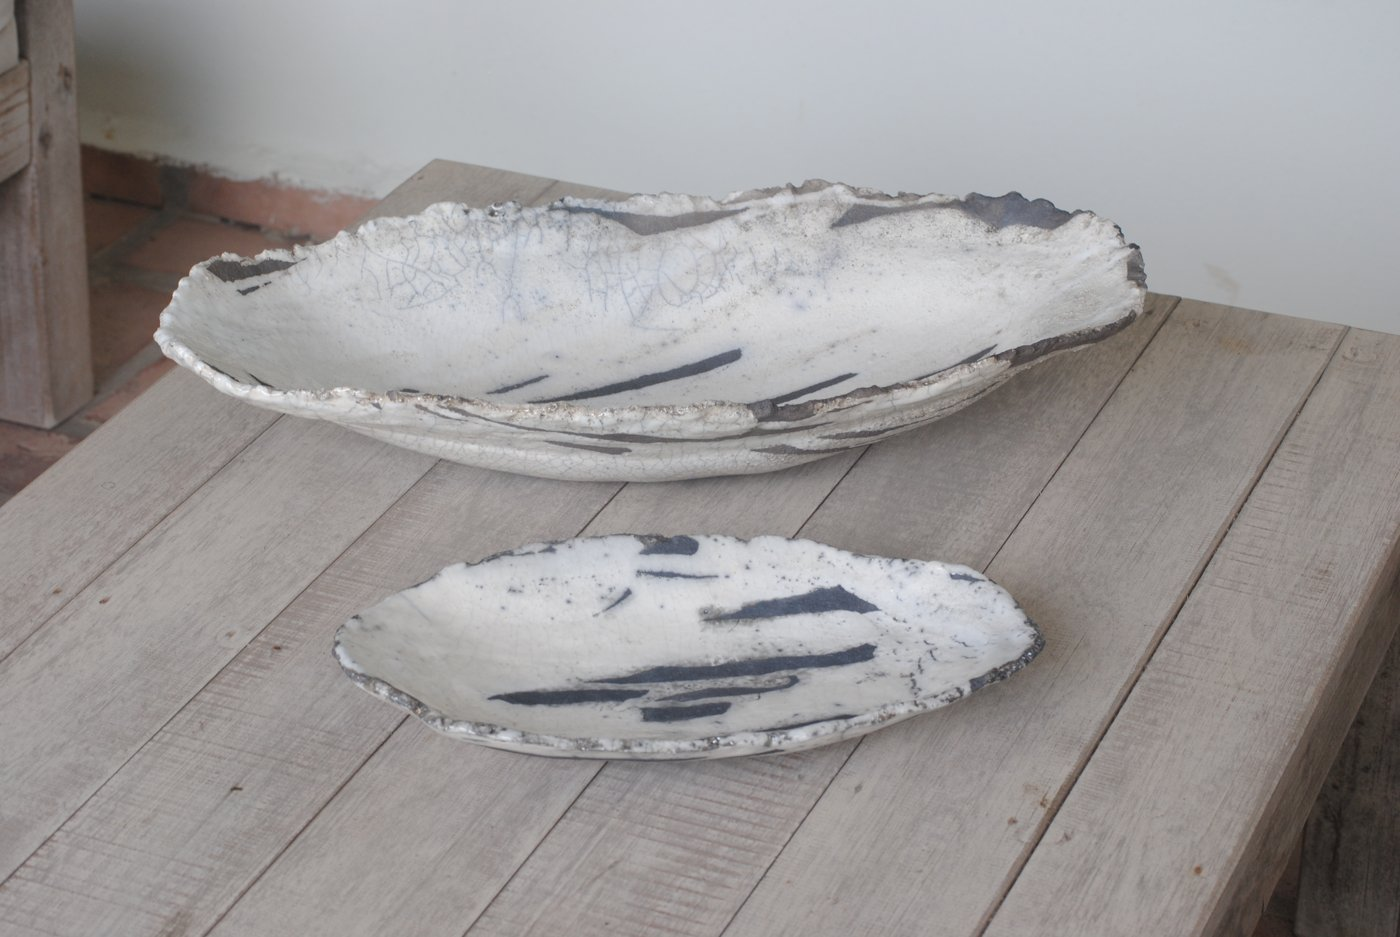
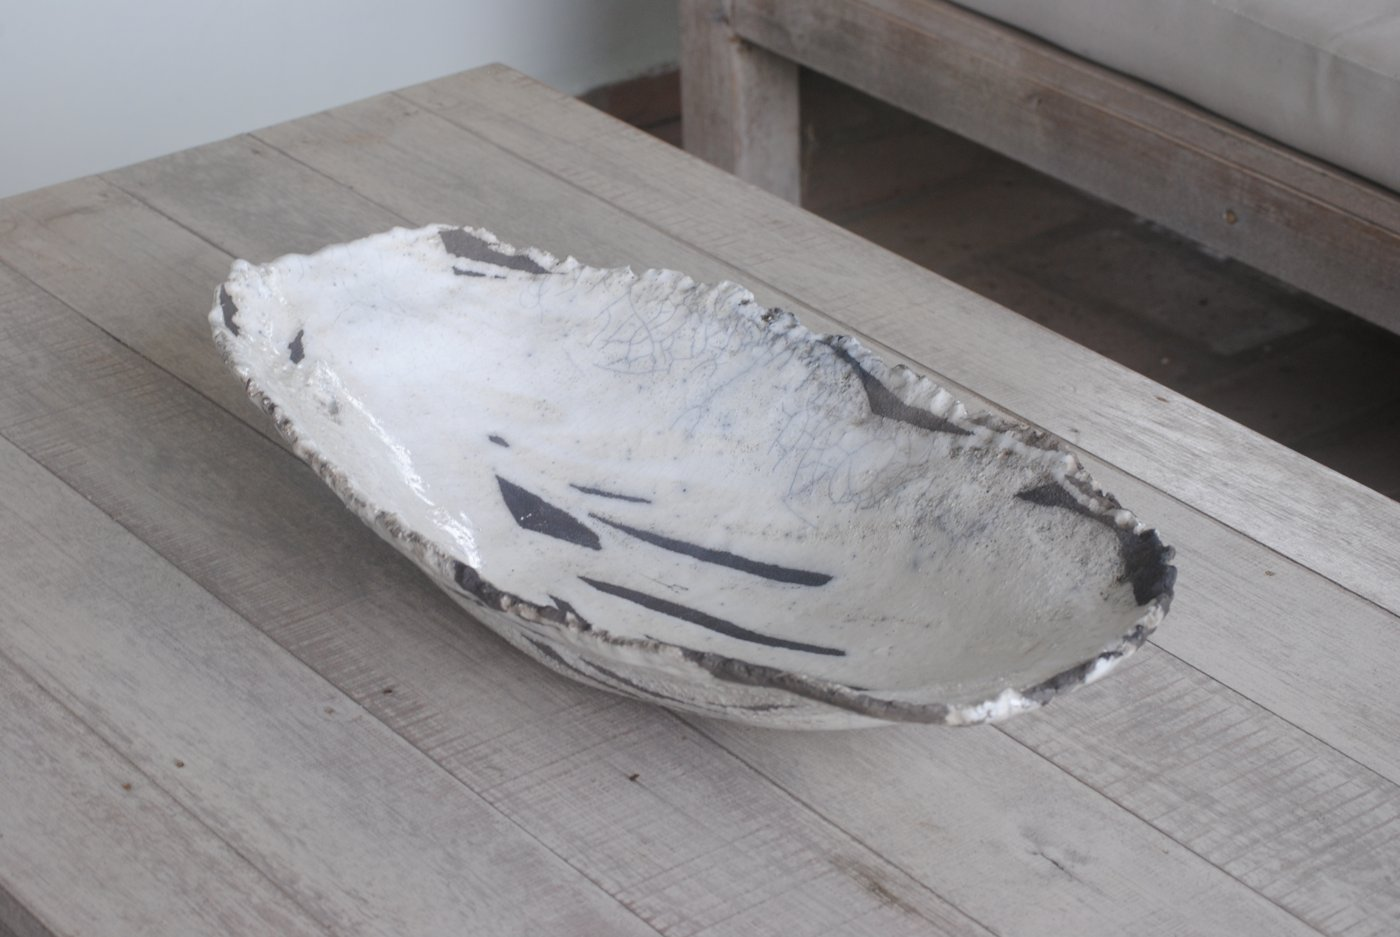
Conectar las 12 fotos nuevas: Anfora, Batea Espiga/Palma, Moab, Salem
5 piezas pasan de placeholder a foto real (optimizada). Quedan 7 sin
foto: Batea Canaan, Vasija Humo mediana, Corazones y Virgen de Fatima.

https://claude.ai/code/session_019p1KMGbqrdEX79wQx66fPZ

diff --git a/productos.js b/productos.js
@@ -118,7 +118,7 @@ const PRODUCTOS = [
     categoria: "ceramica",
     precio: 80000,
     descripcion: "Ánfora de cuerpo amplio en turquesa menta, con moteado de ceniza y fino craquelé, como una reliquia rescatada del agua y el tiempo. Cerámica raku. Medidas: 18 alto × 13 ancho cm.",
-    foto: "",
+    foto: "fotos/prod-anfora.jpg",
     unica: true,
     disponible: false,
     vendida: false
@@ -140,7 +140,7 @@ const PRODUCTOS = [
     categoria: "ceramica",
     precio: 150000,
     descripcion: "Batea alargada mediana de raku transparente, con la textura y las grietas naturales del fuego. Serena y luminosa. Medidas: 44 × 21 × 9 cm.",
-    foto: "",
+    foto: "fotos/prod-batea-palma.jpg",
     unica: true,
     disponible: true,
     vendida: false
@@ -239,7 +239,7 @@ const PRODUCTOS = [
     categoria: "ceramica",
     precio: 70000,
     descripcion: "Vaso escultural tipo florero en verde óxido, con degradado de humo e irisaciones metálicas. Carácter mineral. Medidas: 24 alto × 13 diámetro cm.",
-    foto: "",
+    foto: "fotos/prod-recipiente-moab.jpg",
     unica: true,
     disponible: true,
     vendida: false
@@ -250,7 +250,7 @@ const PRODUCTOS = [
     categoria: "ceramica",
     precio: 70000,
     descripcion: "Vaso tipo florero en raku transparente, blanco marfil recorrido por finas grietas negras, como un mapa antiguo. Medidas: 24 alto × 13 diámetro cm.",
-    foto: "",
+    foto: "fotos/prod-recipiente-salem.jpg",
     unica: true,
     disponible: true,
     vendida: false
